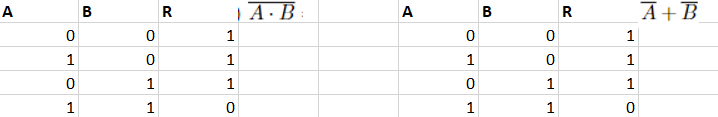
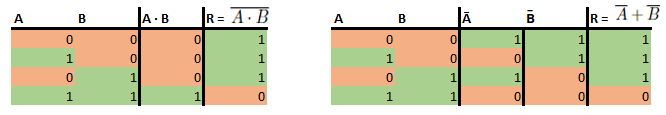
Changes verslag 1

diff --git a/CA_PROJECT_1/Verslag.html b/CA_PROJECT_1/Verslag.html
@@ -57,20 +57,28 @@
 
     <h2>De Morgan</h2>
     <p>
-        Om de twee theorie&euml;n van De Morgan te bewijzen met een waarheidstabel <i>truthtabel</i> zullen we ze individueel bekijken. Allereerst, <u>A+B</u> = <u>A</u> &middot; <u>B</u>.
-        Bijgevoegd vind u de waarheidstabellen voor zowel het linker als het rechter lid.
+        Om de twee theorie&euml;n van De Morgan te bewijzen met een waarheidstabel <i>truthtabel</i> zullen we ze individueel bekijken. 
     </p>
-    <img src="demorgan1.png" alt="De Morgan theorie 1."/>
-    <p>
-        <b>R</b> is telkens het resultaat wanneer je de OR (+) of AND (&middot;) bewerkingen toe past. Zoals u kunt zien zijn deze voor beide leden hetzelfde. Daaruit mag u concluderen dat de beide leden ook aan elkaaar gelijk zijn.
-    </p>
-    <p>
-        Voor de tweede theorie van De Morgan, <u>A &middot; B</u> = <u>A</u> + <u>B</u>, maken we gebruik van een gelijkaardige werkmethode. We stellen de waarheidstabellen van beide leden op.
-    </p>
-    <img src="demorgan2.png" alt="De Morgan theorie 2"/>
-    <p>
-        Opnieuw is <b>R</b> het resultaat wanneer u de booleaanse bewerkingen toepast. R is voor beide tabellen gelijk, waaruit we kunnen concluderen dat ook hier de beide leden gelijk zijn elkaar.
-    </p>
+    <ol>
+        <li>
+            <p>
+                Allereerst, <u>A+B</u> = <u>A</u> &middot; <u>B</u>. Bijgevoegd vind u de waarheidstabellen voor zowel het linker als het rechter lid.
+            </p>
+            <img src="demorgan1.png" alt="De Morgan theorie 1."/>
+            <p>
+                De eerste <b>R</b> is het resultaat wanneer je de logische NOT (<u> </u>) operatie neemt van de voorgaande OR (+). De tweede <b>R</b> (rechts) is de logische AND (&middot;) bewerkingen toe van de twee inversen van A en B. Zoals u kunt zien is de R voor beide hetzelfde, hieruit concluderen we dat de oorspronkelijke vergelijking effectief opgaat.
+            </p>
+        </li>
+        <li>
+            <p>
+                Voor de tweede theorie van De Morgan, <u>A &middot; B</u> = <u>A</u> + <u>B</u>, maken we gebruik van dezelefde werkmethode. We stellen de waarheidstabellen van beide leden op.
+            </p>
+            <img src="demorgan2.png" alt="De Morgan theorie 2"/>
+            <p>
+                Links is <b>R</b> nu het resultaat van de logische NOT van A en B. Rechts is <b>R</b> het resultaat van de logische OR van de inversen van A en B. Opnieuw is R in beide gevallen gelijk. Hieruit concluderen we dat ook hier de beide leden gelijk zijn elkaar.
+            </p>
+        </li>
+    </ol>
     
     <h2>Bewijs voor booleaanse vergelijking</h2>
     <p>
@@ -117,6 +125,42 @@
     </div>
 
     <h2>Implement truth table</h2>
+    <p>
+        Onze werkmethode hier was om voor zowel X als Y een booleaanse vergelijking op te stellen die voor elk bepaalde of X (of Y) aan of uit moest zijn.
+    </p>
+    <ul>
+        <li>
+            <b>X:</b> (<u>A</u> &middot; <u>B</u> &middot; <u>C</u>) + (<u>A</u> &middot; <u>B</u> &middot; C) + (A &middot; <u>B</u> &middot; <u>C</u>)
+        </li>
+        <li>
+            <b>Y:</b> (<u>A</u> &middot; <u>B</u> &middot; <u>C</u>) + (<u>A</u> &middot; <u>B</u> &middot; C) + (<u>A</u> &middot; B &middot; <u>C</u>) + (A &middot; <u>B</u> &middot; <u>C</u>)
+        </li>
+    </ul>
+    <p>
+        Dit konden we dan verder vereenvoudigen:
+    </p>
+    <ul>
+        <li>
+            = (<u>A</u> &middot; <u>B</u>) &middot; (<u>C</u> + C) + (A &middot; <u>B</u> &middot; <u>C</u>)<br>
+            <note>(Distributive law)</note>
+        </li>
+        <li>
+            = (<u>A</u> &middot; <u>B</u>) &middot; (1) + (A &middot; <u>B</u> &middot; <u>C</u>)<br>
+            <note>(Complement law)</note>
+        </li>
+        <li>
+            = (<u>A</u> &middot; <u>B</u>) + (A &middot; <u>B</u> &middot; <u>C</u>)<br>
+            <note>(Identity law)</note>
+        </li>
+        <li>
+            = <u>B</u> &middot; (<u>A</u> + A &middot; <u>C</u>)<br>
+            <note>(Distributive law)</note>
+        </li>
+        <li>
+            = <u>B</u> &middot; (<u>A</u> + <u>C</u>)<br>
+            <note>(Absorption law)</note>
+        </li>
+    </ul>
     <div style="text-align:center;">
         <img src="opdracht_4.png" alt="Opdracht 4"/>
     </div>
@@ -157,8 +201,8 @@
         </li>
     </ul>
     <p>
-        Dit kunnen we eerst nog versimpelen voordat we ... AND gates en ... OR gates in logisim toevoegen. 
-        We kunnen al deze formules abstraheren tot 8 verschillende AND gates (voor elk mogelijk binair getal), en 7 OR gates (voor elk segment).
+        Dit kunnen we eerst nog versimpelen voordat we 8 AND gates en 7 OR gates in logisim toevoegen. 
+        We kunnen uit deze formules 8 verschillende AND gates halen (die aangeven welk decimaal getal de binaire getallen representeren), en 7 OR gates (voor elk segment).
         Verder kun je ook nog het aantal NOT gates minimaliseren door voor elke input, ook een inverse lijn te trekken.
     </p>
     <div style="text-align:center;">
